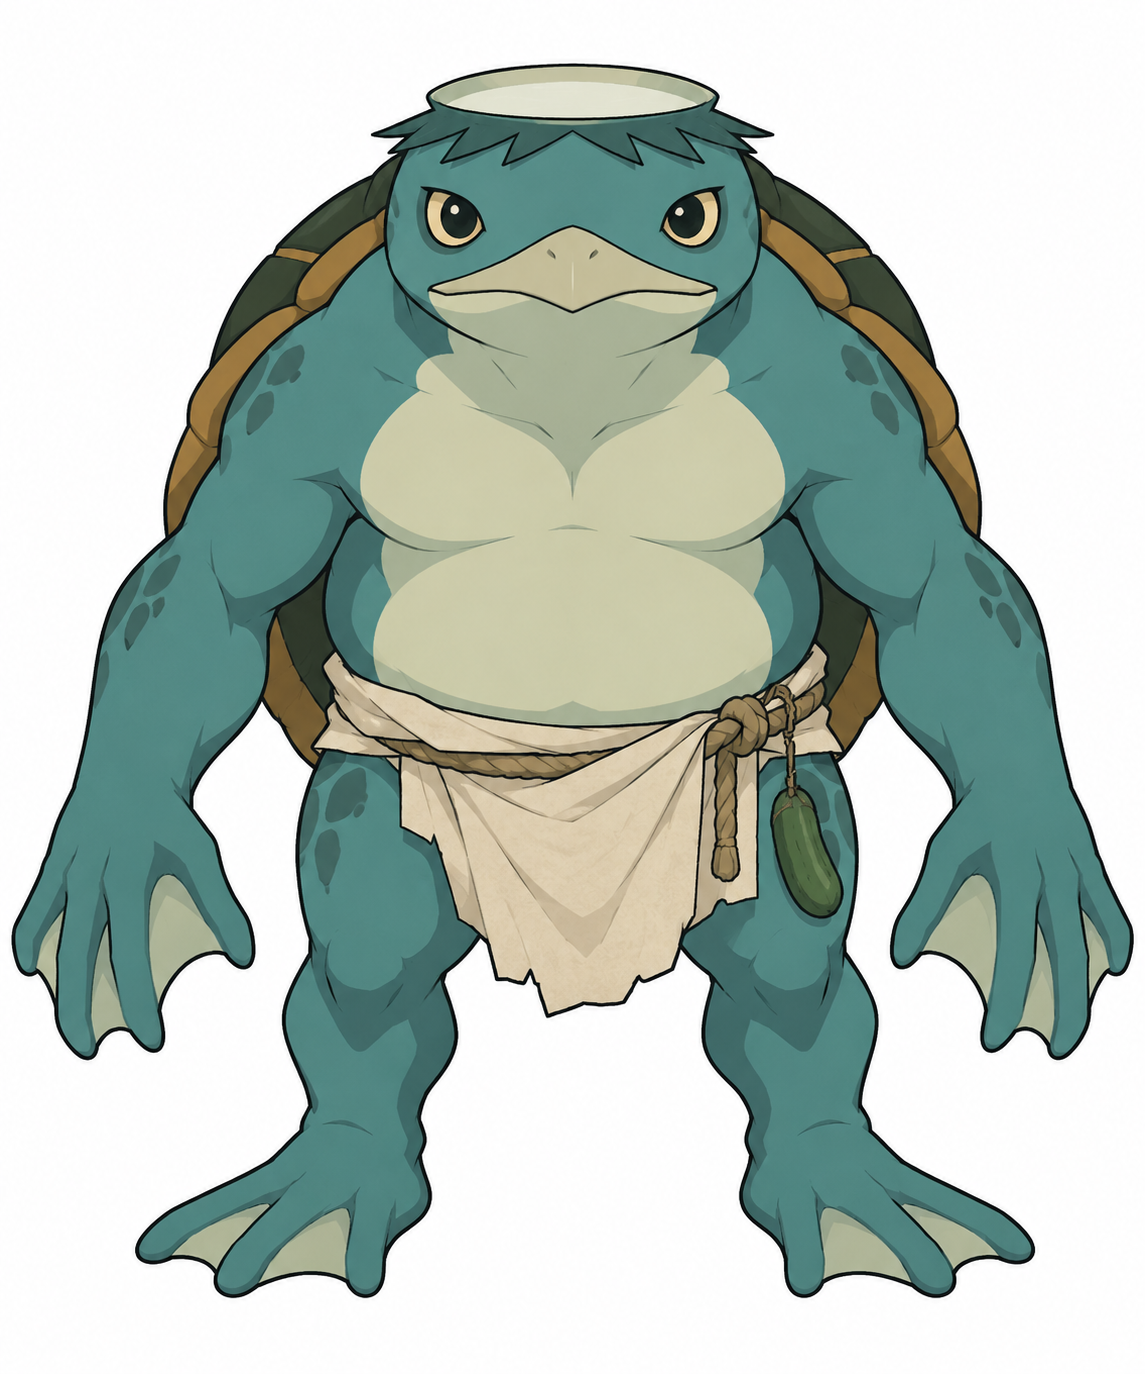
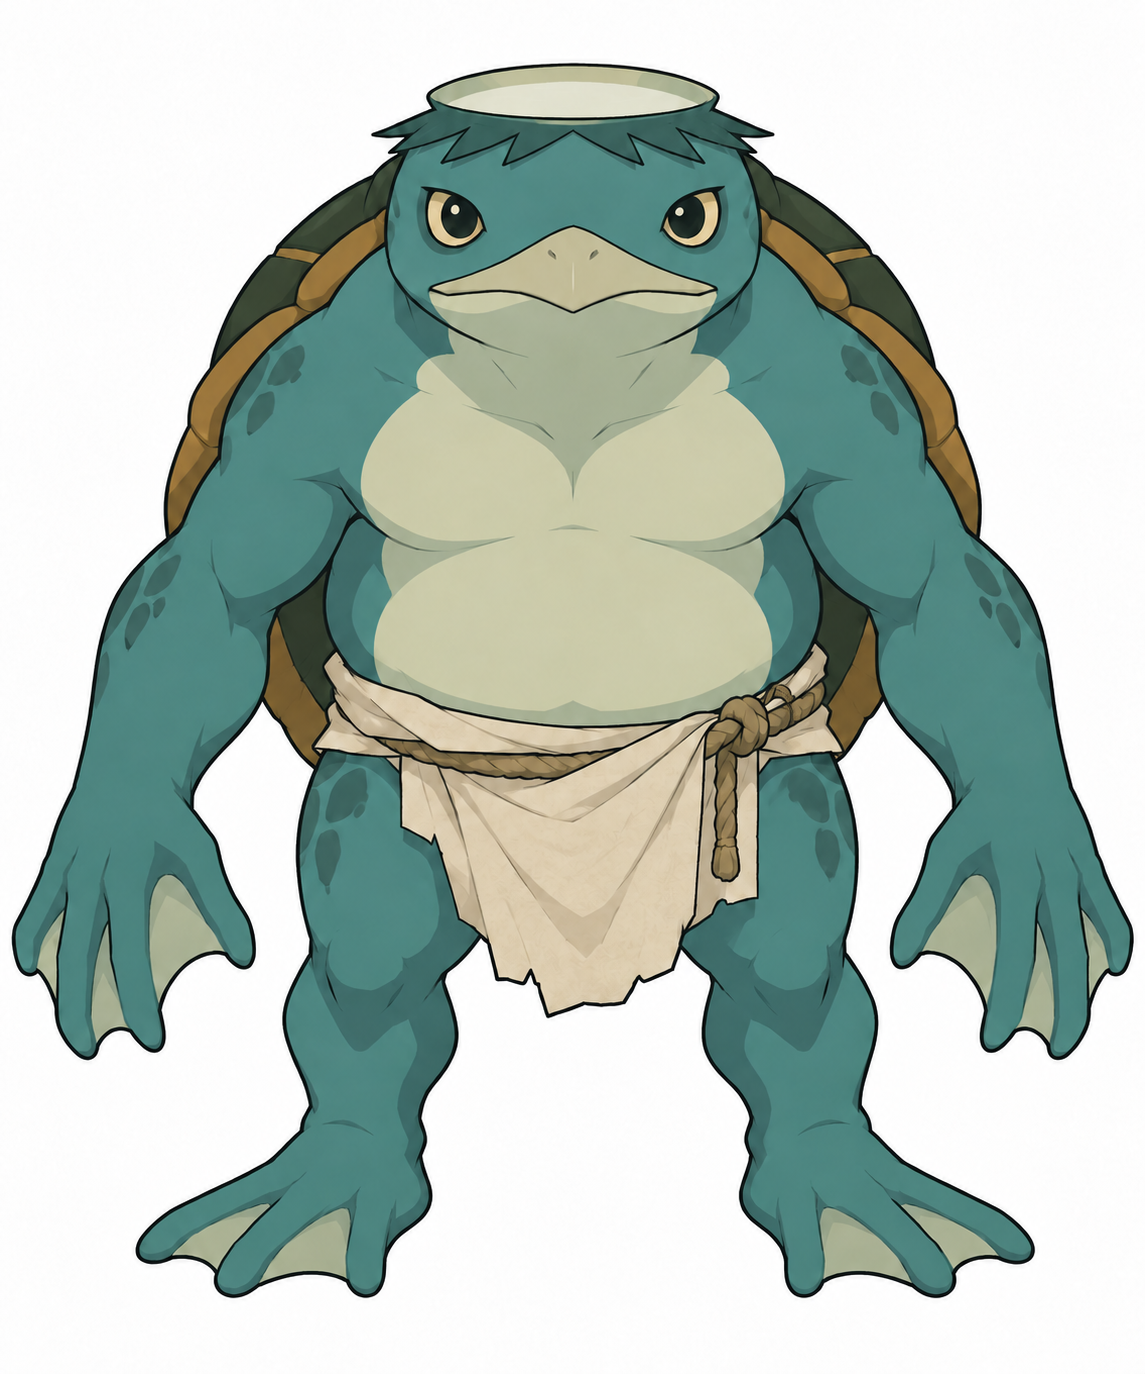
YOK-102: drop the Kappa's cucumber charm (Sol edit of the front; spec and brief updated)

diff --git a/assets/specs/kappa.md b/assets/specs/kappa.md
@@ -9,7 +9,7 @@ The grappler of the lantern riverbank. Formal, stubborn and polite (personality 
 
 - **Silhouette:** low and wide: hunched shoulders, short thick legs, big hands, a round shell on the back, a flat dish on the crown. About 1.5 m, the shortest fighter. Reads as "round and grounded" at 720p. The shell gives a back bulge; the dish a flat-topped head.
 - **Face:** beaked mouth, round eyes, calm stubborn expression, webbed hands and feet.
-- **Outfit:** a plain rice-paper loincloth sash with a rope tie and a small cucumber charm at the hip. Otherwise bare skin.
+- **Outfit:** a plain rice-paper loincloth sash with a rope tie (no charm, designer 2026-10-16). Otherwise bare skin.
 - **Colours (V1):** skin kappa teal, shell dark pine `#34483B` with ochre rim, dish rice paper `#F1E8D4` with a thin ink rim (water NOT modelled), beak and belly pale, outline ink `#1D1B21`, sash rice paper, charm pine.
   - Palette gap (designer to confirm, then added to `style.md`): kappa teal skin PROPOSED `#3E8C84`; shell ochre rim PROPOSED `#8A6A3A`. Pine `#34483B` is the only existing green.
 
@@ -18,7 +18,7 @@ The grappler of the lantern riverbank. Formal, stubborn and polite (personality 
 Written so the same text works as an Astra brief. Replace "Avoid: [negative prompt]" with the block from style.md.
 
 Concept front view (K1, text_to_image, 2:3, nano-banana-pro):
-> Full-body concept art of a squat river-spirit fighter, front view, neutral standing pose with the arms slightly away from the body and the feet apart, plain white background. Hunched wide shoulders, short thick legs, large webbed hands and feet, a beaked mouth, round calm stubborn eyes, a flat pale dish on the top of the head (empty, no water), a round dark-green shell on the back visible at the shoulders, skin in kappa teal #3E8C84, a rice-paper sash with a rope tie and a small cucumber charm at the hip. No held items, no water, no effects. Avoid: [negative prompt].
+> Full-body concept art of a squat river-spirit fighter, front view, neutral standing pose with the arms slightly away from the body and the feet apart, plain white background. Hunched wide shoulders, short thick legs, large webbed hands and feet, a beaked mouth, round calm stubborn eyes, a flat pale dish on the top of the head (empty, no water), a round dark-green shell on the back visible at the shoulders, skin in kappa teal #3E8C84, a rice-paper sash with a rope tie. No held items, no water, no effects. Avoid: [negative prompt].
 
 Turnaround (K2, image_to_image, reference = chosen K1 image):
 > Character turnaround sheet of the same river-spirit fighter: front, side and back views, same height and scale, T-pose (arms straight out), plain white background. Keep the art style, proportions and palette of the reference exactly. The back view clearly shows the round shell. No held items, no water. Avoid: [negative prompt].

diff --git a/docs/design/characters/astra-brief.md b/docs/design/characters/astra-brief.md
@@ -55,7 +55,7 @@ Palette: skin kappa teal `#3E8C84` PROPOSED; shell dark pine `#34483B` with rim 
 
 ### Kappa front (copy-paste)
 
-[style block] Full-body concept art of a squat river-spirit fighter, front view, neutral standing pose with the arms slightly away from the body and the feet apart, plain flat white background. Hunched wide shoulders, short thick legs, large webbed hands and feet, a beaked mouth, round calm stubborn eyes, a flat pale dish on the top of the head (empty, no water), a round dark green shell #34483B with an ochre rim #8A6A3A on the back visible beside the shoulders, skin in teal #3E8C84, a rice-paper sash with a rope tie and a small cucumber charm at the hip. No held items, no water, no effects. [negative block]
+[style block] Full-body concept art of a squat river-spirit fighter, front view, neutral standing pose with the arms slightly away from the body and the feet apart, plain flat white background. Hunched wide shoulders, short thick legs, large webbed hands and feet, a beaked mouth, round calm stubborn eyes, a flat pale dish on the top of the head (empty, no water), a round dark green shell #34483B with an ochre rim #8A6A3A on the back visible beside the shoulders, skin in teal #3E8C84, a rice-paper sash with a rope tie, nothing hanging from it. No held items, no water, no effects. [negative block]
 
 ### Kappa turnaround (copy-paste, attach the chosen front)
 
